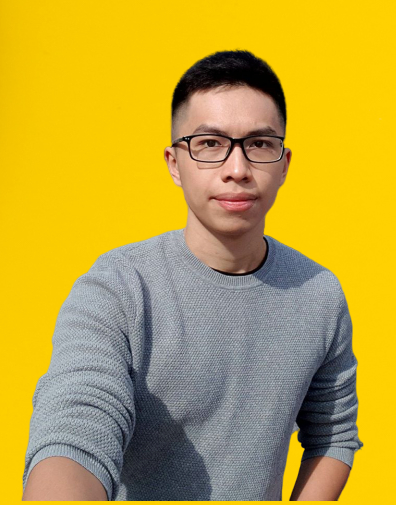
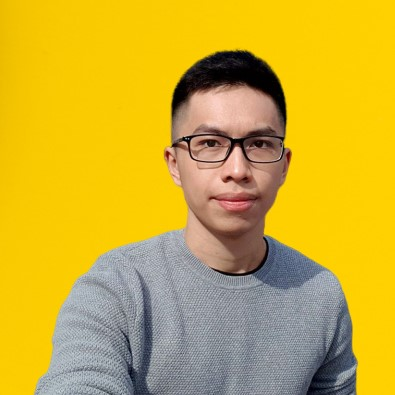
updated

diff --git a/index.html b/index.html
@@ -71,7 +71,7 @@
       <div class="row">
         <div class="col-lg-10 mx-auto">
           <h2>Who am I?</h2>
-          <div style='margin-top: 15px;'>
+          <div>
             <img class="circular--square" src="img/pfp.jpg" />
             <ul>
               <li>
@@ -167,7 +167,7 @@
       <div class="button_cont" align="center">
         <a class="example_e" href="https://github.com/duykamke" target="_blank" rel="nofollow noopener">GITHUB
           ACCOUNT</a>
-        <a class="example_e" href="add-website-here" target="_blank" rel="nofollow noopener">LINKEDIN ACCOUNT</a>
+        <a class="example_e" href="https://www.linkedin.com/in/duy-n-893918119/" target="_blank" rel="nofollow noopener">LINKEDIN ACCOUNT</a>
       </div>
     </div>
   </section>
@@ -705,9 +705,10 @@
   }
 
   .circular--square {
+    display: inline-block;
+    height: 200px;
     border-radius: 50%;
-    height: 50%;
-    height: 50%;
+    margin-bottom: auto;
   }
 
   .carousel-control-prev-icon {
